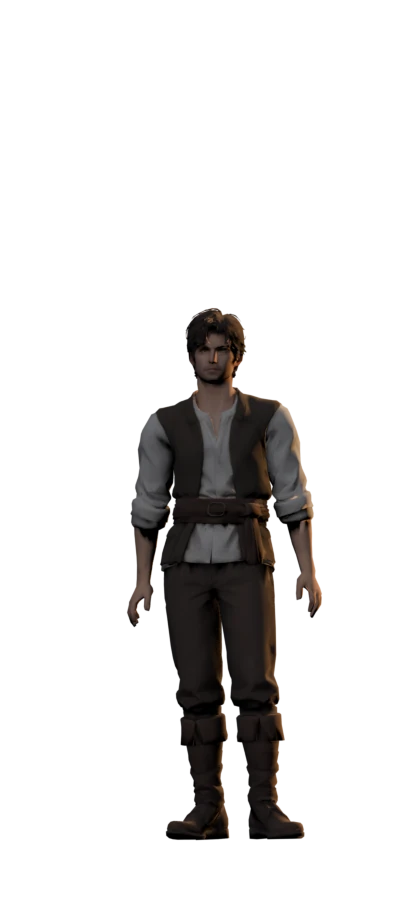
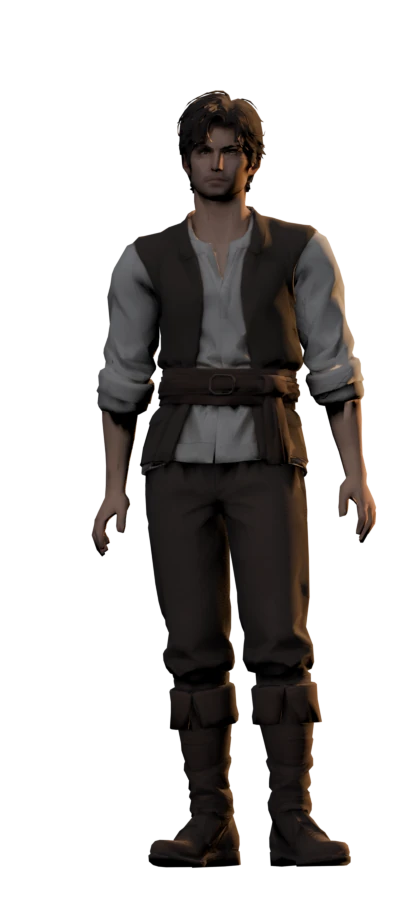
Инвентарь: герой крупнее и ниже (стопы у низа блока), панель выбора скина скрыта

Changed region(s): [[0.2059, 0.0933, 0.9412, 0.9644]]

diff --git a/src/client/pc/PcInventory.ts b/src/client/pc/PcInventory.ts
@@ -9,7 +9,7 @@ import { ensureIconCss, iconHtml, setIconEl } from "../ui/icons";
 import type { IconKey } from "#shared/icons";
 import { AEGIS_NAME, AFFIX_NAME, craftPow, isCraftRare, weaponName, ATTACK_CLASSES, WEAPON_NOUN, attackPointBonus, attackPointEligible, attackPointNext, attackPoints, bothHandsCls, bothHandsNote, fmtPct, qualityStarsShort, sharpPctOf, weaponDef, type WeaponClass, type WeaponTier } from "#shared/items";
 import type { PcEnchRow, PcInvActMsg, PcInvArmor, PcInvData, PcInvResult, PcInvWeapon, TradeItemView } from "#shared/net/messages";
-import { SKIN_LABELS, skinPicture } from "#shared/skins";
+import { skinPicture } from "#shared/skins";
 import { ATTR_SHORT, gemName, parseGem, pcJewelBonus, RING, ringBonusText, ringLabel, ringName, ringSkillBonusOf, type PcInvJewels, type PcInvNeck, type PcInvRing, type RingTier } from "#shared/jewels";
 import { RING_STATS, ringValueText } from "#shared/ringAffixes";
 import { NECK_TIER_NAME, type NeckTier } from "#shared/necklaces";
@@ -990,26 +990,10 @@ export class PcInventory {
     img.src = skinPicture(this.hero.skin);
     img.alt = "";
     img.draggable = false;
-    st.append(div("pcinv-heroshadow"), img, this.skinPick());
+    st.append(div("pcinv-heroshadow"), img);
     return st;
   }
 
-  /** Выбор облика под куклой (страница !inv): то же, что «Внешность» в игре, — 1..BOT.skins. */
-  private skinPick(): HTMLDivElement {
-    const box = div("pcinv-skinpick");
-    const sel = document.createElement("select");
-    sel.className = "pcinv-skinsel";
-    SKIN_LABELS.forEach((label, i) => {
-      const o = document.createElement("option");
-      o.value = String(i + 1);
-      o.textContent = label;
-      sel.append(o);
-    });
-    sel.value = String(Math.max(1, this.hero.skin));
-    sel.onchange = () => this.hooks.act({ act: "skin", id: sel.value, idx: 0 });
-    box.append(sel);
-    return box;
-  }
 
   /** Сведения о герое: ник, титул, уровень, атрибуты, характеристики, кольца. */
   private charInfo(d: PcInvData): HTMLDivElement {
@@ -3773,8 +3757,8 @@ ${["gold", "legendary", "ruby", "craft"].map(tier).join("\n")}
 .pcinv-stage { position:absolute; inset:0 0 44px 0; pointer-events:none; }
 .pcinv-skinpick { position:absolute; left:50%; bottom:-40px; transform:translateX(-50%); pointer-events:auto; }
 .pcinv-skinsel { font:inherit; font-size:14px; padding:6px 10px; border-radius:8px; background:#16202e; color:#e8eef8; border:1px solid #2c3e57; max-width:70vw; }
-.pcinv-heroimg { position:absolute; left:50%; bottom:var(--feet,4%); height:96%; transform:translateX(-50%); filter:drop-shadow(0 8px 14px rgba(0,0,0,.5)); }
-.pcinv-heroshadow { position:absolute; left:50%; bottom:calc(var(--feet,4%) - 10px); width:46%; height:22px; transform:translateX(-50%); border-radius:50%;
+.pcinv-heroimg { position:absolute; left:50%; bottom:0; height:100%; transform:translateX(-50%); filter:drop-shadow(0 8px 14px rgba(0,0,0,.5)); }
+.pcinv-heroshadow { position:absolute; left:50%; bottom:-4px; width:46%; height:22px; transform:translateX(-50%); border-radius:50%;
   background:radial-gradient(ellipse at center,rgba(0,0,0,.6),rgba(0,0,0,0) 70%); }
 @media (max-width: 1199px) {
   .pcinv-root.page .pcinv-gear { grid-template-columns:minmax(0,1fr) 410px; grid-template-areas:"hero bag" "char char"; }
